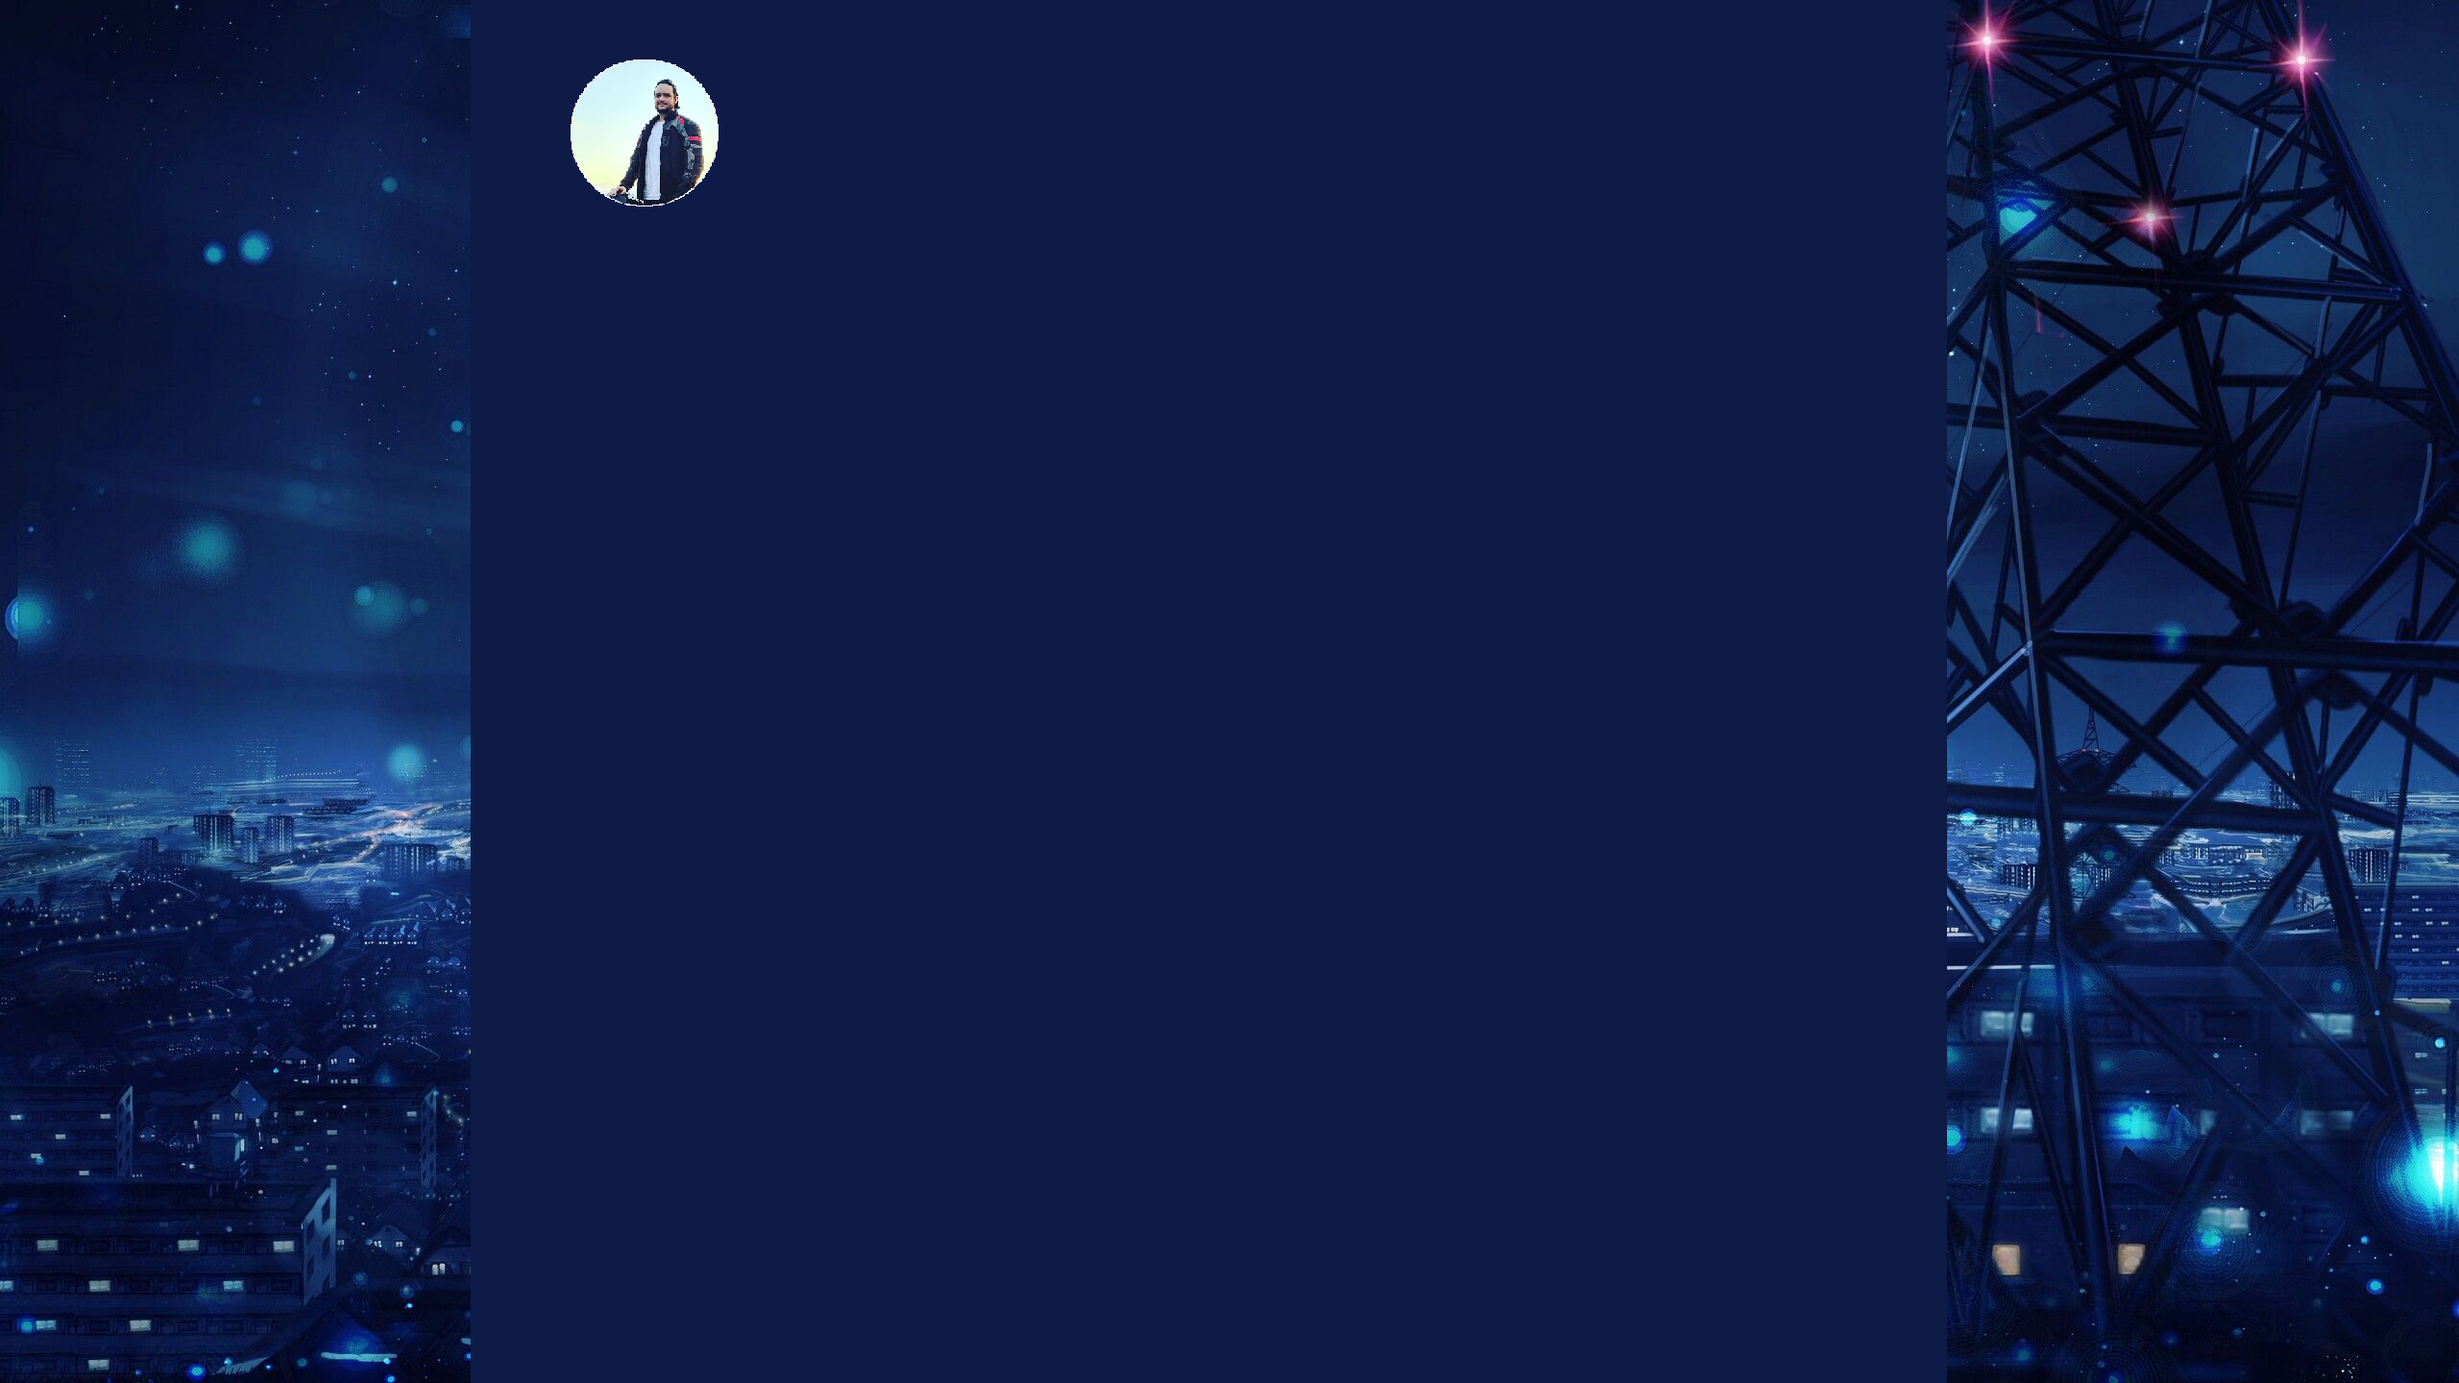
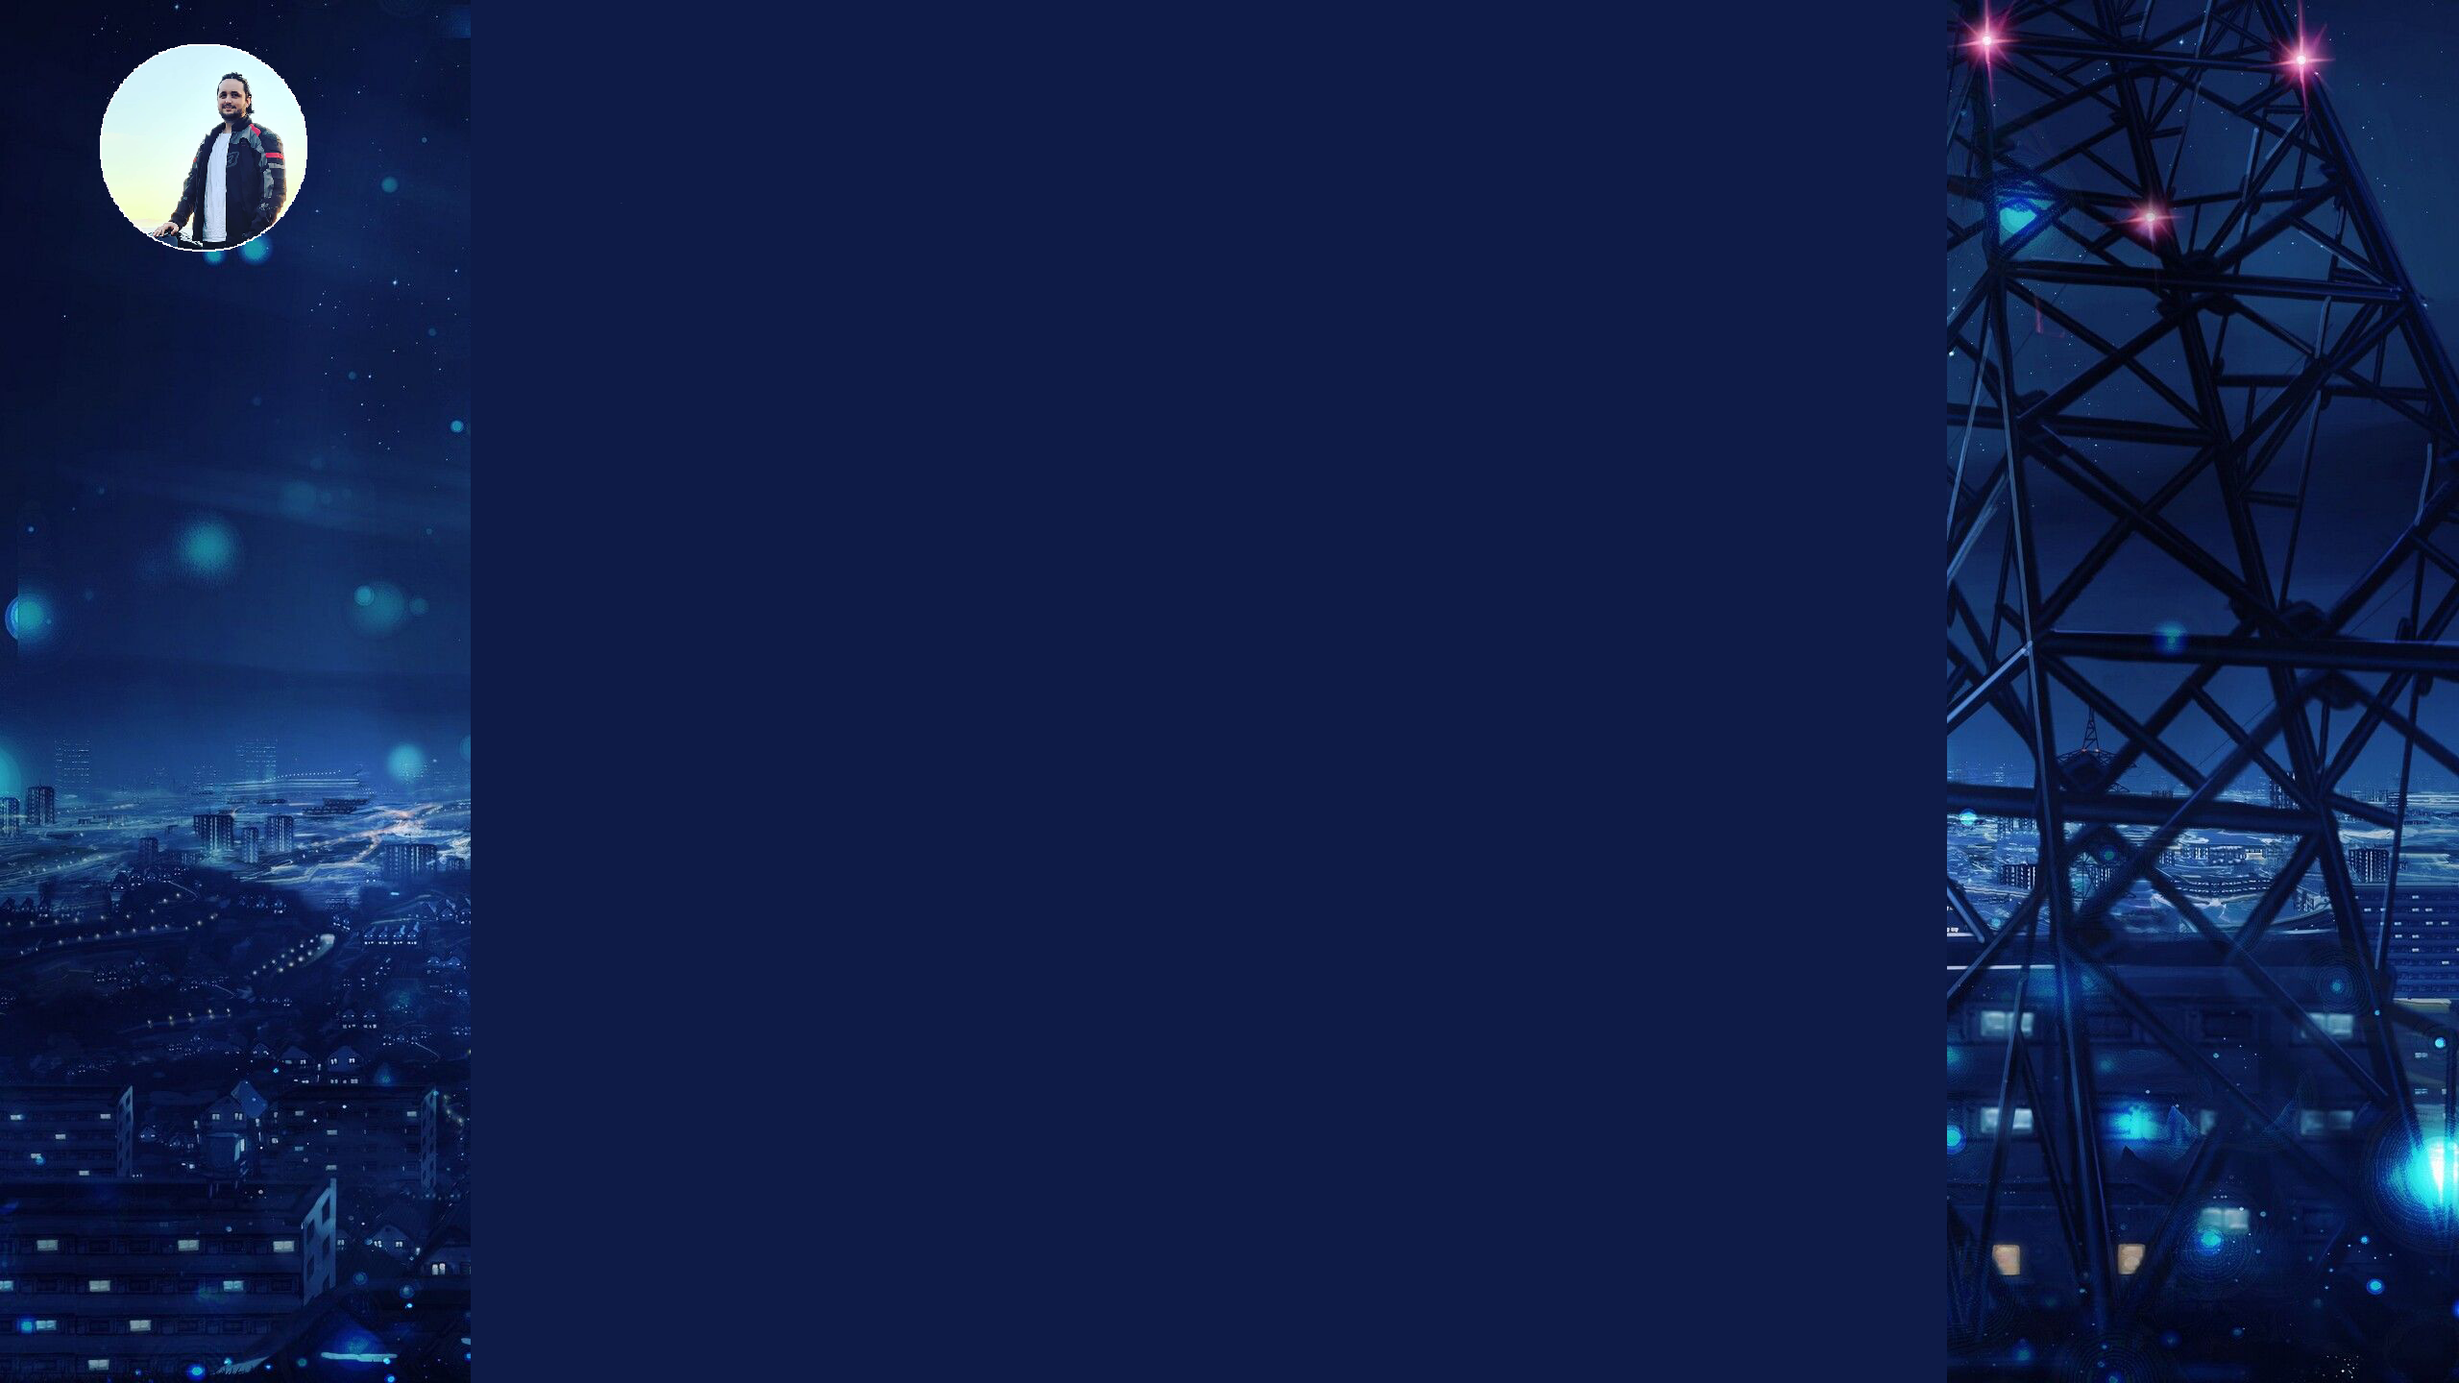
Finished project

Changed region(s): [[0.0312, 0.0312, 0.125, 0.1875], [0.2188, 0.0312, 0.3125, 0.1562]]

diff --git a/Profile.html b/Profile.html
@@ -29,21 +29,94 @@ li a:hover:not(.active) {
 .active {
   background-color: #04AA6D;
 }
-    body { background:url(pagebackground.png) no-repeat; background-size: cover; background-color: black;}
-    p{
+body {
+  width: 100vw;
+  height: 200vh;
+  margin: 0;
+  padding: 0;
+}
+
+body::before {
+  content: '';
+  position: fixed;
+  width: 100vw;
+  height: 100vh;
+  background-image: url("pagebackground.png");
+  background-size: cover;
+  z-index: -1; /* added */
+}
+    body { background:url(pagebackground.png) no-repeat; background-size: cover; background-color: #0e1b47;}
+    p1{
         color: white;
         font-family:Georgia, 'Times New Roman', Times, serif;
-        font-size: 200%;
+        font-size: 120%;
         padding: 23px;
-        border:2px solid powderblue;
         text-align: center;
         word-wrap: break-word;
-        max-width: 1080px;
+        max-width: 700px;
         max-height: auto;
-        position: relative;
-        top:37px;
+        position: absolute;
+        top:29%;
         left:20%;
+        border:2px solid powderblue;
 
+    }
+    p2{
+        color: white;
+        font-family:Georgia, 'Times New Roman', Times, serif;
+        font-size: 120%;
+        padding: 23px;
+        text-align: center;
+        word-wrap: break-word;
+        max-width: 300px;
+        max-height: auto;
+        position: absolute;
+        top:70%;
+        left:55%;
+        border:2px solid powderblue;
+
+    }
+    p3{
+        color: white;
+        font-family:Georgia, 'Times New Roman', Times, serif;
+        font-size: 120%;
+        padding: 23px;
+        text-align: center;
+        word-wrap: break-word;
+        max-width: 400px;
+        max-height: auto;
+        position: absolute;
+        top:122%;
+        left:23%;
+        border:2px solid powderblue;
+    }
+    p4{
+        color: white;
+        font-family:Georgia, 'Times New Roman', Times, serif;
+        font-size: 120%;
+        padding: 23px;
+        text-align: center;
+        word-wrap: break-word;
+        max-width: 400px;
+        max-height: auto;
+        position: absolute;
+        top:162%;
+        left:23%;
+        border:2px solid powderblue;
+    }
+    p5{
+        color: white;
+        font-family:Georgia, 'Times New Roman', Times, serif;
+        font-size: 120%;
+        padding: 23px;
+        text-align: center;
+        word-wrap: break-word;
+        max-width: 400px;
+        max-height: auto;
+        position: absolute;
+        top:162%;
+        left:50%;
+        border:2px solid powderblue;
     }
     h1{
         color:whitesmoke;
@@ -54,7 +127,7 @@ li a:hover:not(.active) {
         text-align: center;
     }
     </style>
-    <title>Personal Info</title>
+    <title>Profile</title>
     <body>
       <ul>
         <li><a href="file:///C:/Users/natyh/Documents/GitHub/About-Me/Personal-Info.html">Personal Info</a></li>
@@ -66,6 +139,15 @@ li a:hover:not(.active) {
         <li style="float:right"><a class="active" href="file:///C:/Users/natyh/Documents/GitHub/About-Me/index.html">Index</a></li>
       </ul>
         <h1>Profile</h1>
+        <h3>What do these tests mean for you?</h3>
+        <p1>The Myer-Briggs test has categorized me as a “Entertainer” or “ESFP-T” personality type. This personality type is said to be one of extreme socialization in which has no greater joy than that of spending time with a good group of friends, this is honestly extremely accurate to my character, I’m almost perpetually talking to or hanging out with my friends, whether that be in a social outing, or through social media. An ESFP-T is further categorized as someone of a spontaneous nature, which is again very accurate to my character, I love to pop up with an idea out of the blue for an outing and partake in it, that’s not to say I completely avoid planning. </p1>
+        <p2>The learning style test has categorized me as an Auditory learning. Someone who understands and processes things easier by hearing the words spoken to them than by doing or reading, this one was honestly surprising to me, as I have always felt that I learn better by doing, by putting myself into an environment in which I don’t have too much experience and learning as I go.</p2>
+        <p3>In the Big Five Personality test, I scored highly in Agreeableness showing that I am expected to choose to cooperate with others rather than compete with them, and that I have a great deal of empathy. While scoring low in areas such as openness, This I feel is rather accurate to how I believe myself to be, I find myself often being the type of person who would suppress their own feelings or push them aside to try to help another person to be happy.</p3>
+        <p4>In a team setting I don’t see them influencing me too greatly, at least not consciously as I already play into the strengths that have been outlined within these results, being that I often try to encourage communication and clarity within my groups, as well as being as conscious of fellow members feelings, thoughts and ideas to the best I possibly can, unfortunately I do often lack confidence to believe my ideas are of more or equal worth to others that are mentioned but having this brought to light from these results may assist in being more assertive in this regard.</p4>
+        <p5>When forming a team I should focus on trying to surround myself with likeminded people who are happy to be outspoken and communicate clearly and openly, as well as those who are able to talk comfortably with topics related to the task as well as those that are not related, as without these types of people I could very possibly feel ostracized and annoying if I’m the only one speaking all the time, or throwing ideas out without anyone seeming like they have any counter argument or constructive additions/takeaways.</p5>
+        <img src="esfp.png" style="position: absolute; left: 61%; top:18%">
+        <img src="learning.png" style="position: absolute; left: 21%; top:59%">
+        <img src="big5.png" style="position: absolute; right: -35%; top: 74%">
        <p></p>
       </body>
     </html>

diff --git a/Personal-Info.html b/Personal-Info.html
@@ -30,20 +30,36 @@ li a:hover:not(.active) {
 .active {
   background-color: #04AA6D;
 }
-    body { background:url(pagebackground.png) no-repeat; background-size: cover; background-color: black;}
+body {
+  width: 100vw;
+  height: 200vh;
+  margin: 0;
+  padding: 0;
+}
+
+body::before {
+  content: '';
+  position: fixed;
+  width: 100vw;
+  height: 100vh;
+  background-image: url("pagebackground.png");
+  background-size: cover;
+  z-index: -1; /* added */
+}
+    body { background:url(pagebackground.png) no-repeat; background-size: cover; background-color: #0e1b47;}
     p{
         color: white;
         font-family:Georgia, 'Times New Roman', Times, serif;
-        font-size: 200%;
-        padding: 23px;
+        font-size: 180%;
+        padding: 10px;
         border:2px solid powderblue;
         text-align: center;
         word-wrap: break-word;
         max-width: 1080px;
         max-height: auto;
-        position: relative;
-        bottom:37%;
-        left:21%;
+        position:relative;
+        bottom:auto;
+        left:20%
 
     }
     h1{
@@ -72,6 +88,8 @@ li a:hover:not(.active) {
         <p>My name is Nathen, 23 years of age, born and raised in the Australia and lived in a town in NSW called Campbelltown for just about my entire life, and likely will for a long time to come.</p>
         <p> my family has a Hispanic heritage, originating from Uruguay and migrating to Australia, despite this I grew up very disconnected from my Spanish culture, not knowing a word of the language or next to nothing about the culture surrounding the country.</p>
         <p>I graduated high school in 2015 and since then ive gone job to job not finding anything that I found enjoyment in doing, until I decided to push to build foundations that I can really start to create a future upon by furthering my education to get qualifications in a field which I believe I would really enjoy.</p>
-        <p>A fun although nerdy fact about me is that with the help of YouTube I taught myself how to consistently solve a Rubik’s cube in less than a minute, I often used this a party trick to get people to take a shot when they didn’t believe me.</p>
+        <p>A fun although nerdy fact about me is that with the help of YouTube I taught myself how to consistently solve a Rubik’s cube in less than a minute, I often used this a party trick to get people to take a shot when they didn’t believe me. I have a beautiful sun conure called papaya and i spend majority my time outside riding my motorbike.</p>
+        <img src="bird.jpg" style="height: 25%; position:relative; left: 26%;">
+        <img src="bike.jpg" style="height: 25%; position:relative; left: 26%;">
     </body>
     </html>

diff --git a/Interest-In-IT.html b/Interest-In-IT.html
@@ -29,12 +29,28 @@ li a:hover:not(.active) {
 .active {
   background-color: #04AA6D;
 }
-    body { background:url(pagebackground.png) no-repeat; background-size: cover; background-color: black;}
+body {
+  width: 100vw;
+  height: 200vh;
+  margin: 0;
+  padding: 0;
+}
+
+body::before {
+  content: '';
+  position: fixed;
+  width: 100vw;
+  height: 100vh;
+  background-image: url("pagebackground.png");
+  background-size: cover;
+  z-index: -1; /* added */
+}
+    body { background:url(pagebackground.png) no-repeat; background-size: cover; background-color: #0e1b47;}
     p{
         color: white;
         font-family:Georgia, 'Times New Roman', Times, serif;
-        font-size: 200%;
-        padding: 23px;
+        font-size: 180%;
+        padding: 5px;
         border:2px solid powderblue;
         text-align: center;
         word-wrap: break-word;
@@ -42,7 +58,7 @@ li a:hover:not(.active) {
         max-height: auto;
         position: relative;
         top:37px;
-        left:23%;
+        left:20%;
 
     }
     h1{
@@ -54,7 +70,7 @@ li a:hover:not(.active) {
         text-align: center;
     }
     </style>
-    <title>Personal Info</title>
+    <title>Interest in IT</title>
     <body>
       <ul>
         <li><a href="file:///C:/Users/natyh/Documents/GitHub/About-Me/Personal-Info.html">Personal Info</a></li>

diff --git a/Ideal-Job.html b/Ideal-Job.html
@@ -29,12 +29,28 @@ li a:hover:not(.active) {
 .active {
   background-color: #04AA6D;
 }
-    body { background:url(pagebackground.png) no-repeat; background-size: cover; background-color: black;}
+body {
+  width: 100vw;
+  height: 200vh;
+  margin: 0;
+  padding: 0;
+}
+
+body::before {
+  content: '';
+  position: fixed;
+  width: 100vw;
+  height: 100vh;
+  background-image: url("pagebackground.png");
+  background-size: cover;
+  z-index: -1; /* added */
+}
+    body { background:url(pagebackground.png) no-repeat; background-size: cover; background-color: #0e1b47;}
     p{
         color: white;
         font-family:Georgia, 'Times New Roman', Times, serif;
         font-size: 200%;
-        padding: 23px;
+        padding: 5px;
         border:2px solid powderblue;
         text-align: center;
         word-wrap: break-word;
@@ -42,7 +58,7 @@ li a:hover:not(.active) {
         max-height: auto;
         position: relative;
         top:37px;
-        left: 22%;
+        left: 20%;
 
     }
     h1{
@@ -58,7 +74,7 @@ li a:hover:not(.active) {
         text-align: center;
     }
     </style>
-    <title>Personal Info</title>
+    <title>Ideal Job</title>
     <body>
       <ul>
         <li><a href="file:///C:/Users/natyh/Documents/GitHub/About-Me/Personal-Info.html">Personal Info</a></li>

diff --git a/Project-Idea.html b/Project-Idea.html
@@ -29,11 +29,27 @@ li a:hover:not(.active) {
 .active {
   background-color: #04AA6D;
 }
-    body { background:url(pagebackground.png) no-repeat; background-size: cover; background-color: black;}
+body {
+  width: 100vw;
+  height: 200vh;
+  margin: 0;
+  padding: 0;
+}
+
+body::before {
+  content: '';
+  position: fixed;
+  width: 100vw;
+  height: 100vh;
+  background-image: url("pagebackground.png");
+  background-color: #0e1b47;
+  background-size: cover;
+  z-index: -1; /* added */
+}
     p{
         color: white;
         font-family:Georgia, 'Times New Roman', Times, serif;
-        font-size: 97%;
+        font-size: 25px;
         padding: 11px;
         border:2px solid powderblue;
         text-align: center;
@@ -42,7 +58,7 @@ li a:hover:not(.active) {
         max-height: auto;
         position: relative;
         top:37px;
-        left:19.3%;
+        left:20%;
 
     }
     h1{
@@ -54,7 +70,7 @@ li a:hover:not(.active) {
         text-align: center;
     }
     </style>
-    <title>Personal Info</title>
+    <title>Project Idea</title>
     <body>
       <ul>
         <li><a href="file:///C:/Users/natyh/Documents/GitHub/About-Me/Personal-Info.html">Personal Info</a></li>

diff --git a/job.html b/job.html
@@ -29,9 +29,25 @@ li a:hover:not(.active) {
 .active {
   background-color: #04AA6D;
 }
-    body { background:url(pagebackground.png) no-repeat; background-size: cover;}
+body {
+  width: 100vw;
+  height: 200vh;
+  margin: 0;
+  padding: 0;
+}
+
+body::before {
+  content: '';
+  position: fixed;
+  width: 100vw;
+  height: 100vh;
+  background-image: url("pagebackground.png");
+  background-size: cover;
+  z-index: -1; /* added */
+}
+    body { background:url(pagebackground.png) no-repeat; background-size: cover; background-color: #0e1b47;}
     </style>
-    <title>Index</title>
+    <title>Job</title>
     <body>
       <ul>
         <li><a href="file:///C:/Users/natyh/Documents/GitHub/About-Me/Personal-Info.html">Personal Info</a></li>

diff --git a/index.html b/index.html
@@ -29,7 +29,7 @@ li a:hover:not(.active) {
 .active {
   background-color: #04AA6D;
 }
-    body { background:url(aboutme.gif) no-repeat; background-size: cover; background-color: black;}
+    body { background:url(aboutme.gif) no-repeat; background-size: cover; background-color: #0e1b47;}
     </style>
     <title>Index</title>
     <body>
